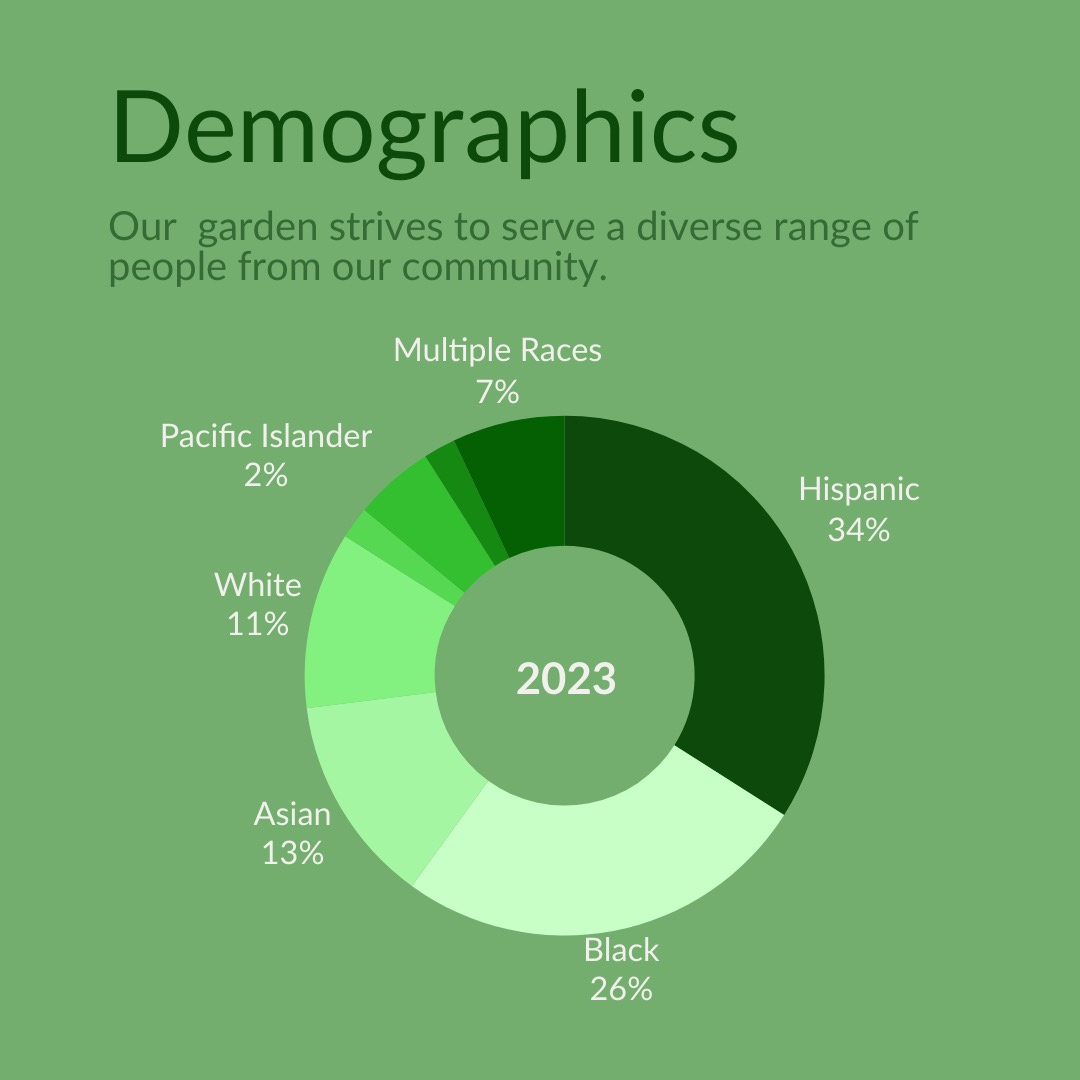
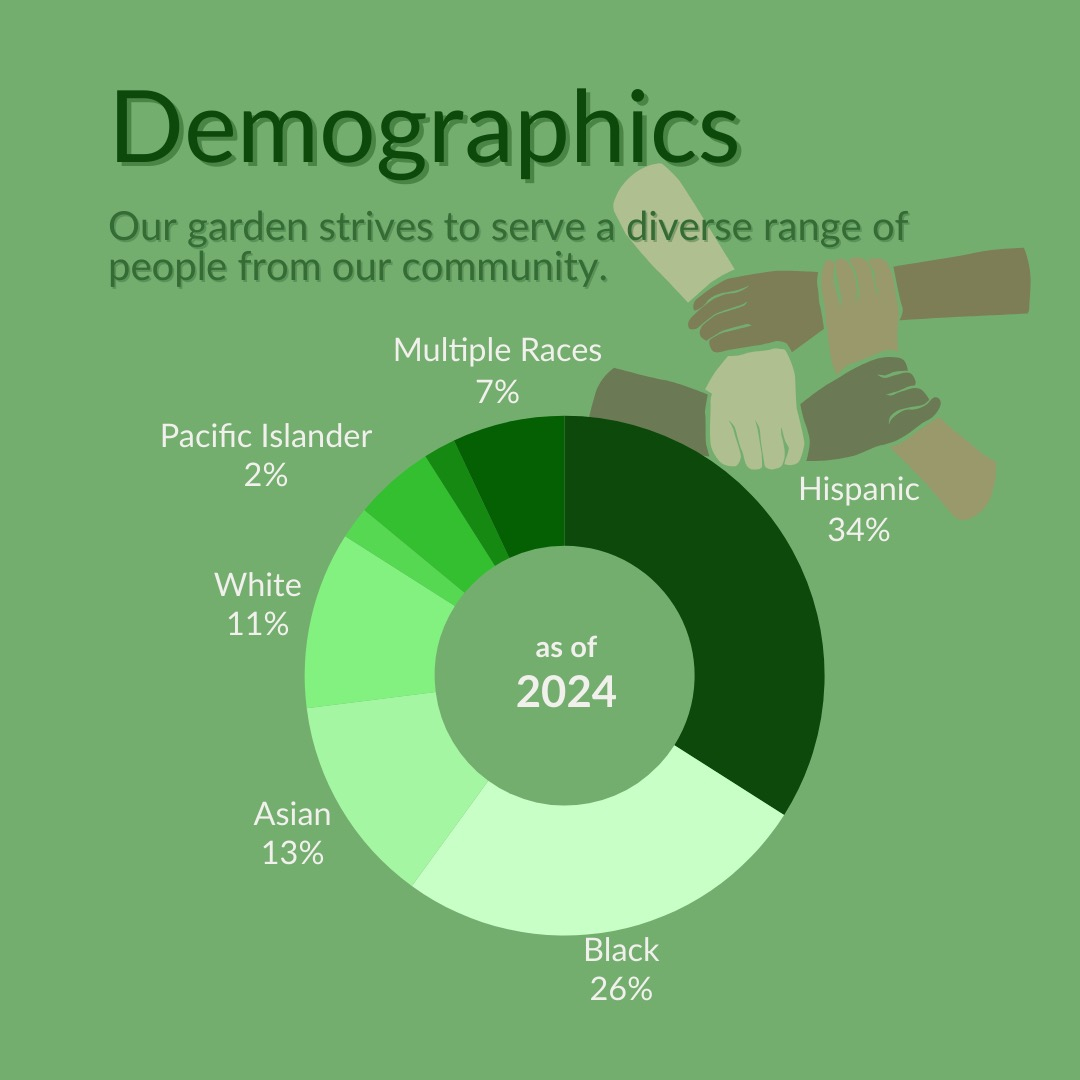
Added Images

Changed region(s): [[0.0917, 0.0917, 0.9778, 0.4889], [0.4583, 0.5806, 0.5806, 0.6722]]

diff --git a/css/styles.css b/css/styles.css
@@ -147,7 +147,7 @@ body {
 
 .stats {
     background: url('../images/74AE6F.jpg') no-repeat center center / cover;
-	padding: 500px 0;
+	padding: 550px 0;
 	position: relative;
 }
 
@@ -170,14 +170,26 @@ body {
 .image-container {
     position: absolute;
     top: 100%; /* Adjust the top position */
-    left: 0; /* Adjust the right position */
+    left: 0; 
     margin-top: 20px; /* Center vertically */
 }
 
 .image-container img {
-    max-width: 500px; /* Set a maximum width to limit the image size */
+    width: 900px; /* Set image width */
     height: auto; /* Maintain aspect ratio */
     display: block; /* Prevents inline alignment issues */
 }
 
+.image-container1 {
+    position: absolute;
+    top: 100%; /* Adjust the top position */
+    right: 0; /* Adjust the right position */
+    margin-top: 20px; /* Center vertically */
+}
+
+.image-container1 img {
+    width: 900px; /* Set image width */
+    height: auto; /* Maintain aspect ratio */
+    display: block; /* Prevents inline alignment issues */
+}
 

diff --git a/index.html b/index.html
@@ -38,8 +38,13 @@
           </p>
       </div>
     </header>
+
     <div class="image-container">
       <img src="images/PieChart.jpg" alt="PieChart">
+    </div>
+
+    <div class="image-container1">
+      <img src="images/WhoWeServe.jpg" alt="WhoWeServe">
     </div>
 
   </body>
